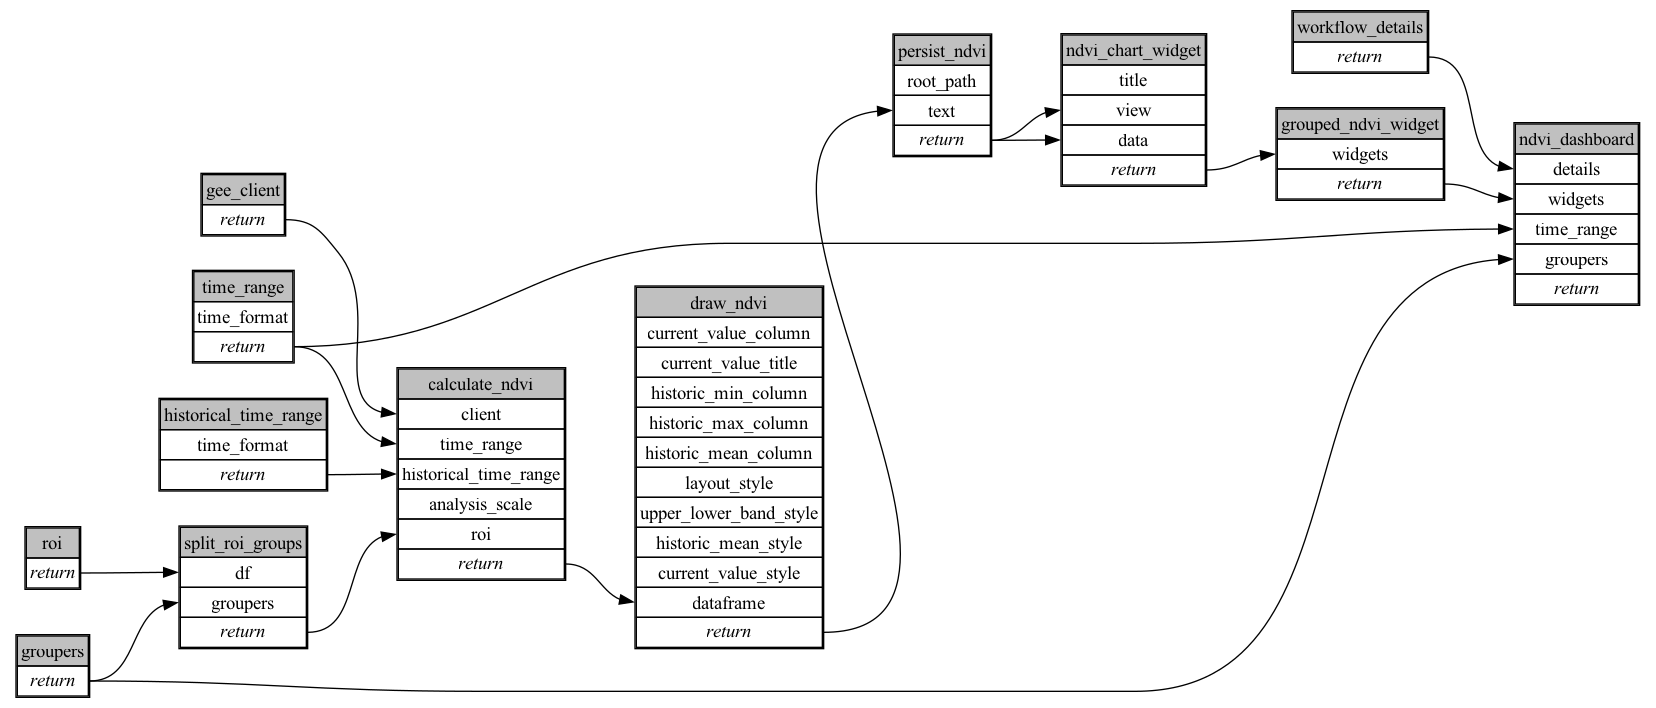
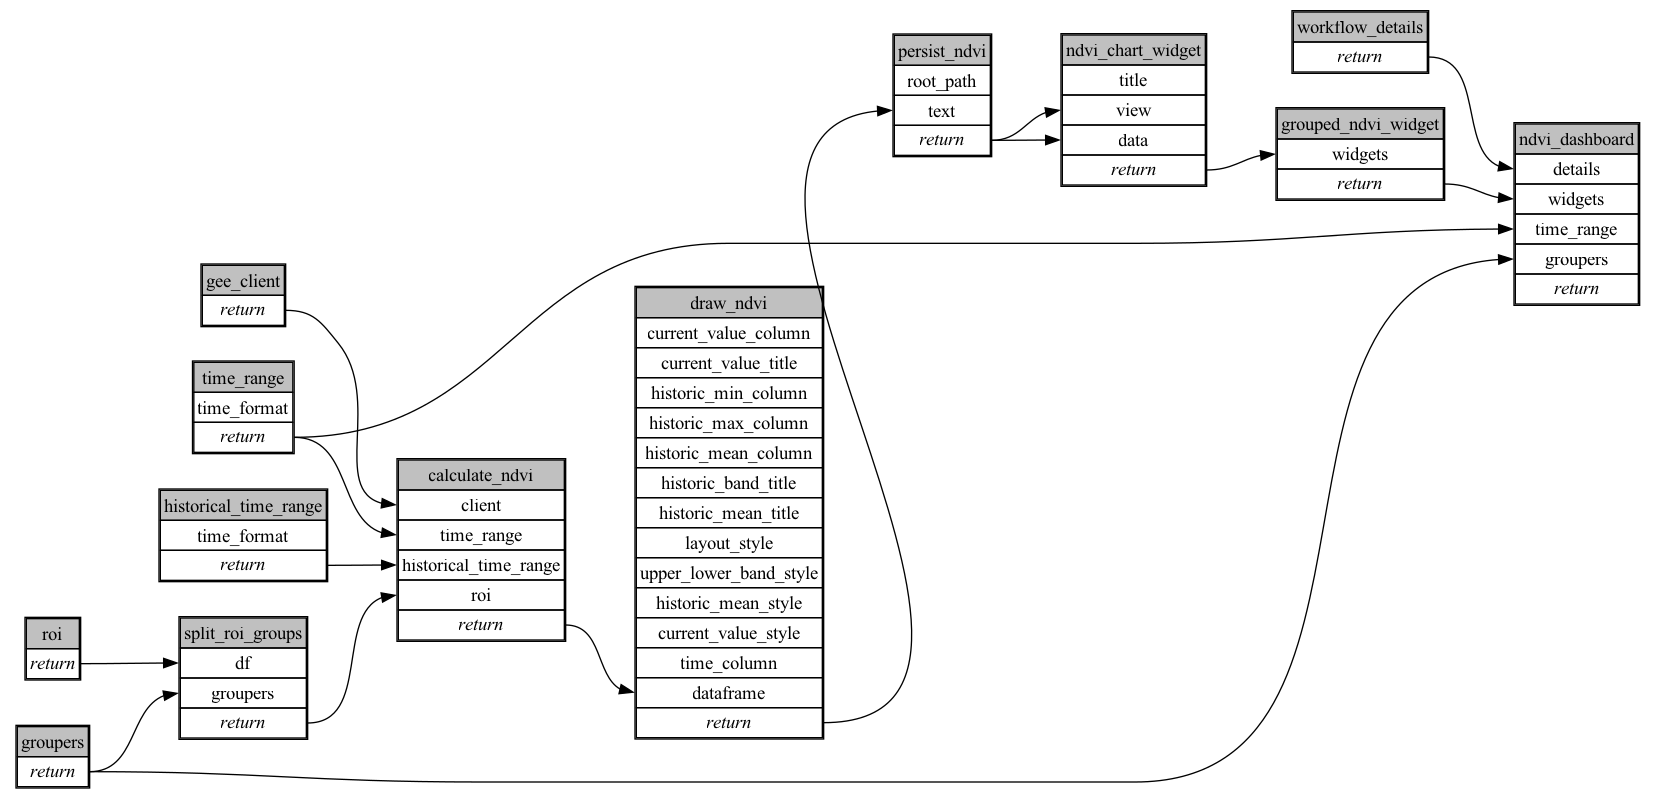
rjsf tweaks

diff --git a/ecoscope-workflows-ndvi-workflow/ecoscope_workflows_ndvi_workflow/formdata.py b/ecoscope-workflows-ndvi-workflow/ecoscope_workflows_ndvi_workflow/formdata.py
@@ -59,27 +59,6 @@ class CalculateNdvi(BaseModel):
     )
 
 
-class DrawNdvi(BaseModel):
-    model_config = ConfigDict(
-        extra="forbid",
-    )
-    historic_band_title: Optional[str] = Field(
-        "Historic Min-Max",
-        description="The title shown in the plot legend for historic band",
-        title="Historic Band Title",
-    )
-    historic_mean_title: Optional[str] = Field(
-        "Historic Mean",
-        description="The title shown in the plot legend for historic mean values",
-        title="Historic Mean Title",
-    )
-    time_column: Optional[str] = Field(
-        "img_date",
-        description="The name of the dataframe column to pull historic max values from",
-        title="Time Column",
-    )
-
-
 class GoogleEarthEngineConnection(BaseModel):
     name: str = Field(..., title="Data Source")
 
@@ -166,4 +145,3 @@ class FormData(BaseModel):
     groupers: Optional[Groupers] = Field(None, title="Set Groupers")
     roi: Optional[Roi] = Field(None, title="Load ROI")
     calculate_ndvi: Optional[CalculateNdvi] = Field(None, title="Calculate NDVI")
-    draw_ndvi: Optional[DrawNdvi] = Field(None, title="Draw NDVI")

diff --git a/ecoscope-workflows-ndvi-workflow/ecoscope_workflows_ndvi_workflow/params.py b/ecoscope-workflows-ndvi-workflow/ecoscope_workflows_ndvi_workflow/params.py
@@ -59,27 +59,6 @@ class CalculateNdvi(BaseModel):
     )
 
 
-class DrawNdvi(BaseModel):
-    model_config = ConfigDict(
-        extra="forbid",
-    )
-    historic_band_title: Optional[str] = Field(
-        "Historic Min-Max",
-        description="The title shown in the plot legend for historic band",
-        title="Historic Band Title",
-    )
-    historic_mean_title: Optional[str] = Field(
-        "Historic Mean",
-        description="The title shown in the plot legend for historic mean values",
-        title="Historic Mean Title",
-    )
-    time_column: Optional[str] = Field(
-        "img_date",
-        description="The name of the dataframe column to pull historic max values from",
-        title="Time Column",
-    )
-
-
 class GoogleEarthEngineConnection(BaseModel):
     name: str = Field(..., title="Data Source")
 
@@ -166,4 +145,3 @@ class Params(BaseModel):
     groupers: Optional[Groupers] = Field(None, title="Set Groupers")
     roi: Optional[Roi] = Field(None, title="Load ROI")
     calculate_ndvi: Optional[CalculateNdvi] = Field(None, title="Calculate NDVI")
-    draw_ndvi: Optional[DrawNdvi] = Field(None, title="Draw NDVI")

diff --git a/ecoscope-workflows-ndvi-workflow/ecoscope_workflows_ndvi_workflow/dags/run_async.py b/ecoscope-workflows-ndvi-workflow/ecoscope_workflows_ndvi_workflow/dags/run_async.py
@@ -142,7 +142,6 @@ def main(params: Params):
                 "client": DependsOn("gee_client"),
                 "time_range": DependsOn("time_range"),
                 "historical_time_range": DependsOn("historical_time_range"),
-                "analysis_scale": 500,
             }
             | (params_dict.get("calculate_ndvi") or {}),
             method="mapvalues",
@@ -163,10 +162,13 @@ def main(params: Params):
                 "historic_min_column": "min",
                 "historic_max_column": "max",
                 "historic_mean_column": "mean",
+                "historic_band_title": "Historic Min-Max",
+                "historic_mean_title": "Historic Mean",
                 "layout_style": None,
                 "upper_lower_band_style": None,
                 "historic_mean_style": None,
                 "current_value_style": None,
+                "time_column": "img_date",
             }
             | (params_dict.get("draw_ndvi") or {}),
             method="mapvalues",

diff --git a/ecoscope-workflows-ndvi-workflow/ecoscope_workflows_ndvi_workflow/dags/run_async_mock_io.py b/ecoscope-workflows-ndvi-workflow/ecoscope_workflows_ndvi_workflow/dags/run_async_mock_io.py
@@ -160,7 +160,6 @@ def main(params: Params):
                 "client": DependsOn("gee_client"),
                 "time_range": DependsOn("time_range"),
                 "historical_time_range": DependsOn("historical_time_range"),
-                "analysis_scale": 500,
             }
             | (params_dict.get("calculate_ndvi") or {}),
             method="mapvalues",
@@ -181,10 +180,13 @@ def main(params: Params):
                 "historic_min_column": "min",
                 "historic_max_column": "max",
                 "historic_mean_column": "mean",
+                "historic_band_title": "Historic Min-Max",
+                "historic_mean_title": "Historic Mean",
                 "layout_style": None,
                 "upper_lower_band_style": None,
                 "historic_mean_style": None,
                 "current_value_style": None,
+                "time_column": "img_date",
             }
             | (params_dict.get("draw_ndvi") or {}),
             method="mapvalues",

diff --git a/ecoscope-workflows-ndvi-workflow/ecoscope_workflows_ndvi_workflow/dags/jupytext.py b/ecoscope-workflows-ndvi-workflow/ecoscope_workflows_ndvi_workflow/dags/jupytext.py
@@ -226,7 +226,6 @@ calculate_ndvi = (
         client=gee_client,
         time_range=time_range,
         historical_time_range=historical_time_range,
-        analysis_scale=500,
         **calculate_ndvi_params,
     )
     .mapvalues(argnames=["roi"], argvalues=split_roi_groups)
@@ -240,9 +239,6 @@ calculate_ndvi = (
 # parameters
 
 draw_ndvi_params = dict(
-    historic_band_title=...,
-    historic_mean_title=...,
-    time_column=...,
     widget_id=...,
 )
 
@@ -260,10 +256,13 @@ draw_ndvi = (
         historic_min_column="min",
         historic_max_column="max",
         historic_mean_column="mean",
+        historic_band_title="Historic Min-Max",
+        historic_mean_title="Historic Mean",
         layout_style=None,
         upper_lower_band_style=None,
         historic_mean_style=None,
         current_value_style=None,
+        time_column="img_date",
         **draw_ndvi_params,
     )
     .mapvalues(argnames=["dataframe"], argvalues=calculate_ndvi)

diff --git a/ecoscope-workflows-ndvi-workflow/ecoscope_workflows_ndvi_workflow/dags/run_sequential.py b/ecoscope-workflows-ndvi-workflow/ecoscope_workflows_ndvi_workflow/dags/run_sequential.py
@@ -110,7 +110,6 @@ def main(params: Params):
             client=gee_client,
             time_range=time_range,
             historical_time_range=historical_time_range,
-            analysis_scale=500,
             **(params_dict.get("calculate_ndvi") or {}),
         )
         .mapvalues(argnames=["roi"], argvalues=split_roi_groups)
@@ -127,10 +126,13 @@ def main(params: Params):
             historic_min_column="min",
             historic_max_column="max",
             historic_mean_column="mean",
+            historic_band_title="Historic Min-Max",
+            historic_mean_title="Historic Mean",
             layout_style=None,
             upper_lower_band_style=None,
             historic_mean_style=None,
             current_value_style=None,
+            time_column="img_date",
             **(params_dict.get("draw_ndvi") or {}),
         )
         .mapvalues(argnames=["dataframe"], argvalues=calculate_ndvi)

diff --git a/ecoscope-workflows-ndvi-workflow/ecoscope_workflows_ndvi_workflow/dags/run_sequential_mock_io.py b/ecoscope-workflows-ndvi-workflow/ecoscope_workflows_ndvi_workflow/dags/run_sequential_mock_io.py
@@ -128,7 +128,6 @@ def main(params: Params):
             client=gee_client,
             time_range=time_range,
             historical_time_range=historical_time_range,
-            analysis_scale=500,
             **(params_dict.get("calculate_ndvi") or {}),
         )
         .mapvalues(argnames=["roi"], argvalues=split_roi_groups)
@@ -145,10 +144,13 @@ def main(params: Params):
             historic_min_column="min",
             historic_max_column="max",
             historic_mean_column="mean",
+            historic_band_title="Historic Min-Max",
+            historic_mean_title="Historic Mean",
             layout_style=None,
             upper_lower_band_style=None,
             historic_mean_style=None,
             current_value_style=None,
+            time_column="img_date",
             **(params_dict.get("draw_ndvi") or {}),
         )
         .mapvalues(argnames=["dataframe"], argvalues=calculate_ndvi)

diff --git a/ecoscope-workflows-ndvi-workflow/README.md b/ecoscope-workflows-ndvi-workflow/README.md
@@ -5,8 +5,8 @@
 
 ```yaml
 # fingerprint:
-artifacts_sha256_basic: c7d63e873e28d04fe246de005a3f1950d68e14aeb50da1ecfe5012824fe719aa
-artifacts_sha256_strict: fa0e0e780bf3588ee3fc6abeae4b6fa76ef07add7a71f6470f7d81d241bbb5b4
+artifacts_sha256_basic: 30f5a5ee0b83e91f88addaf0c027b8f994e5d47efa0e2033fcf16af97e606ea1
+artifacts_sha256_strict: 8ff8a7d25403786f46400044e8c48c71b43e3c6423ba259ea463b360ce3179e8
 installed_requirements:
 - channel: https://repo.prefix.dev/ecoscope-workflows/
   name: ecoscope-workflows-core
@@ -14,8 +14,8 @@ installed_requirements:
 - channel: https://repo.prefix.dev/ecoscope-workflows/
   name: ecoscope-workflows-ext-ecoscope
   version: {version: ==0.22.1}
-params_sha256: 715967d58012c78a023a6706b664c0de0a98379a64a0ba4ccc21912dc6ff1ec2
-spec_sha256: 1c0183611a6fe6b50664100eca2ffc2c7be4cfda4e1931cc4d00b16ef1639dd2
+params_sha256: 0aef357a54ac78e7e367fc263d3f5e6c66e4a91cca864729fa9de9e9b39d51c5
+spec_sha256: 9b884533e80e53bfe5d78a08257e8b5b0f5ada1c539dd00dd2af131a9586e6fb
 
 ```
 
